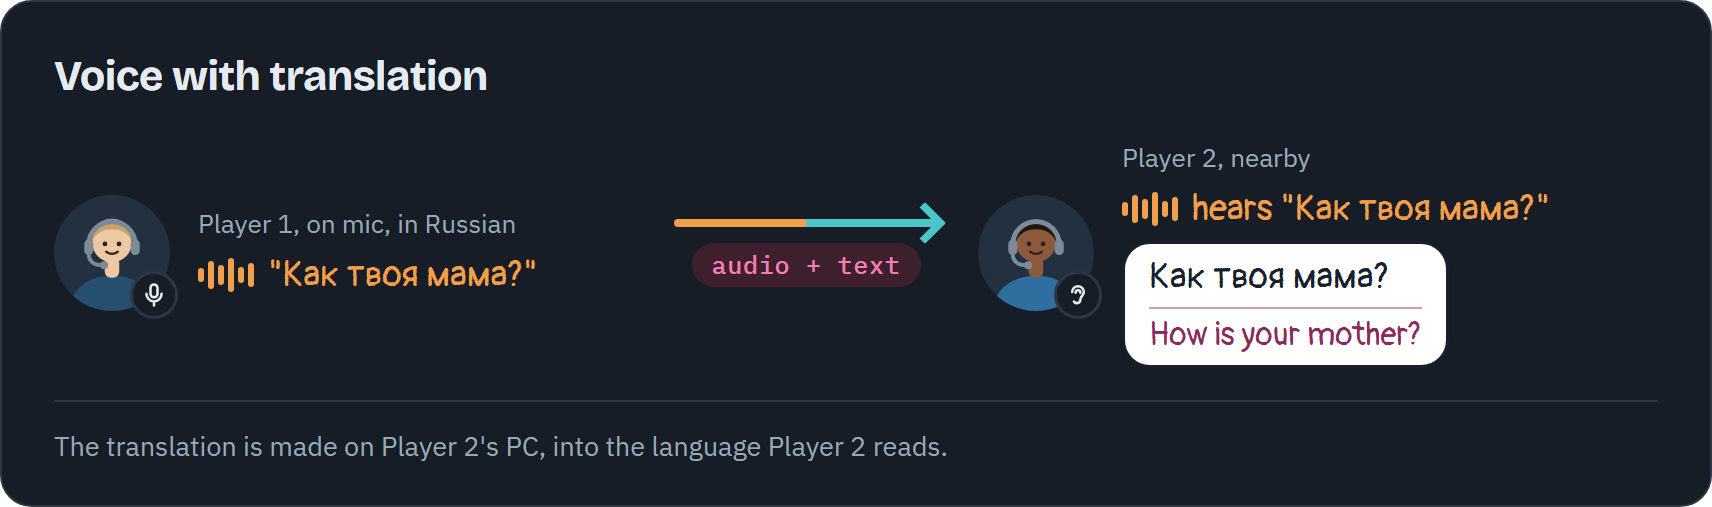
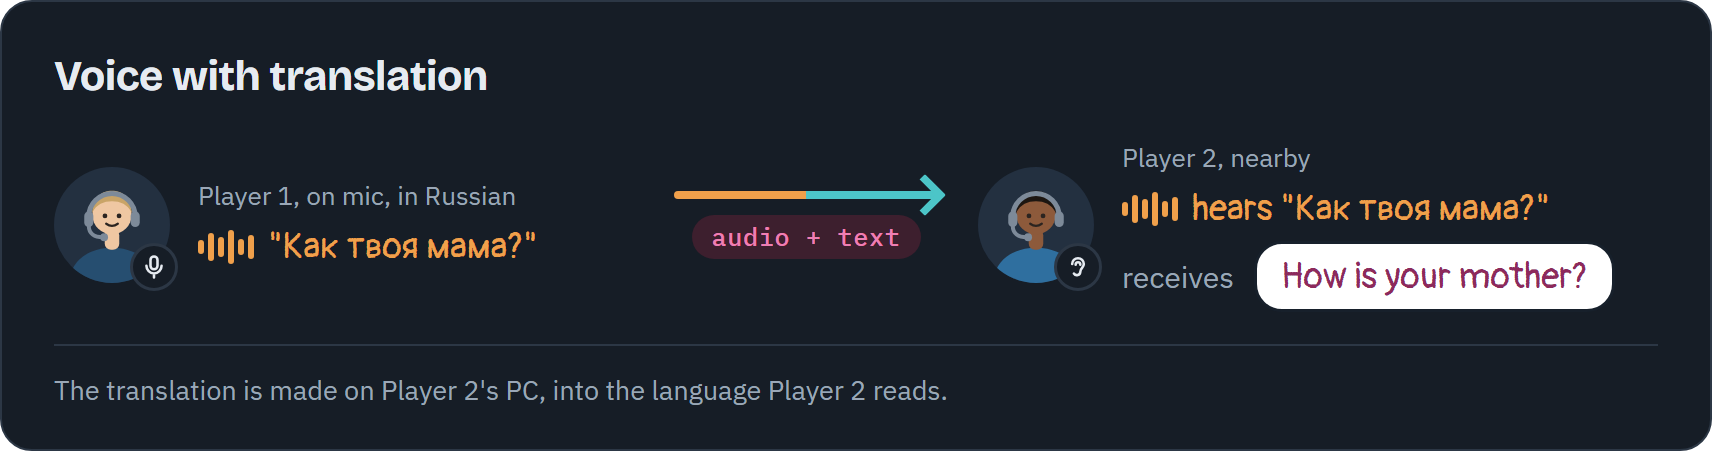
README pictures: "receives" before each text a player gets; the translation card shows only the English text

diff --git a/docs/comms/make_comms.py b/docs/comms/make_comms.py
@@ -49,6 +49,9 @@ h2 { margin: 0; font-family: var(--font-display); font-weight: 700; font-size: 2
 .wave { display: inline-flex; align-items: center; gap: 2px; height: 18px; }
 .wave i { display: block; width: 3px; border-radius: 2px; background: var(--audio); }
 .bubble { display: inline-block; justify-self: start; background: #fff; color: #17202b; border: 1.5px solid #17202b; border-radius: 14px; padding: 5px 12px; font-family: var(--font-bubble); font-size: 18px; line-height: 1.25; }
+.got { display: flex; align-items: center; gap: 10px; flex-wrap: wrap; }
+.got > .verb { font-size: 15px; color: var(--muted); }
+.bubble.translated { color: #8d2a5c; }
 .bubble .tr { display: block; border-top: 1px solid #c9a3b6; margin-top: 4px; padding-top: 3px; color: #8d2a5c; font-size: 16px; }
 .channel { display: grid; justify-items: center; gap: 8px; }
 .wire { position: relative; width: 100%%; height: 4px; border-radius: 2px; }
@@ -142,6 +145,11 @@ def bubble(t, tr=None):
     return '<span class="bubble">%s%s</span>' % (t, '<span class="tr">%s</span>' % tr if tr else '')
 
 
+def receives(b):
+    """what a receiver gets as text: "receives" and the bubble"""
+    return '<span class="got"><span class="verb">receives</span>%s</span>' % b
+
+
 def channel(kind, label):
     return '<div class="channel c-%s"><div class="wire"></div><span class="chip">%s</span></div>' % (kind, label)
 
@@ -155,21 +163,21 @@ CARDS = [
     ('2-captions', 'Voice to text', 'Player 1 talks; a deaf player reads it.',
      who(avatar(ANA, 'mic'), 'Player 1, on mic', spoken('"How is your mother?"')),
      channel('text', 'text'),
-     who(avatar(CHLOE, 'deaf'), 'Deaf player, nearby', bubble('How is your mother?')),
+     who(avatar(CHLOE, 'deaf'), 'Deaf player, nearby', receives(bubble('How is your mother?'))),
      "Speech to text runs on Player 1's PC; the words appear as they are said, in a bubble over Player 1's head."),
     ('3-typed', 'Text to text, in proximity', 'A player without a microphone types; the players near them read it.',
      who(avatar(DEV, 'keys'), 'No mic, types', bubble('How is your mother?')),
      channel('text', 'text'),
      '<div class="stack">%s%s<div class="far">%s</div></div>' % (
-         who(avatar(EMI, 'keys'), 'No mic, 6 m away', bubble('How is your mother?')),
-         who(avatar(CHLOE, 'keys'), 'No mic, 18 m away', bubble('How is your mother?')),
+         who(avatar(EMI, 'keys'), 'No mic, 6 m away', receives(bubble('How is your mother?'))),
+         who(avatar(CHLOE, 'keys'), 'No mic, 18 m away', receives(bubble('How is your mother?'))),
          who(avatar(FAR, 'keys'), 'No mic, 60 m away', '<span class="nothing">out of range: nothing</span>')),
      'Everyone within the Speak range (25 m by default) gets the line; players farther away do not.'),
     ('4-translation', 'Voice with translation', 'Player 1 talks in Russian; Player 2 hears them and reads it in English.',
      who(avatar(IVAN, 'mic'), 'Player 1, on mic, in Russian', spoken('"Как твоя мама?"')),
      channel('both', 'audio + text'),
      who(avatar(BEN, 'ear'), 'Player 2, nearby',
-         spoken('hears "Как твоя мама?"') + bubble('Как твоя мама?', 'How is your mother?')),
+         spoken('hears "Как твоя мама?"') + receives('<span class="bubble translated">How is your mother?</span>')),
      "The translation is made on Player 2's PC, into the language Player 2 reads."),
     ('5-command', 'Voice command', 'Player 1 says a password; the game opens a door.',
      who(avatar(ANA, 'mic'), 'Player 1, on mic', spoken('"Open sesame"')),

diff --git a/README.md b/README.md
@@ -60,7 +60,7 @@ game can show your words in text to other players. By extension, your game or mo
 
 <picture>
   <source media="(prefers-color-scheme: dark)" srcset="docs/comms/4-translation-dark.png">
-  <img src="docs/comms/4-translation-light.png" width="760" alt="Voice with translation: Player 1 says &quot;Как твоя мама?&quot; in Russian; Player 2 hears it and reads it with the translation &quot;How is your mother?&quot;">
+  <img src="docs/comms/4-translation-light.png" width="760" alt="Voice with translation: Player 1 says &quot;Как твоя мама?&quot; in Russian; Player 2 hears it and receives the text in English, &quot;How is your mother?&quot;">
 </picture>
 
 <picture>
